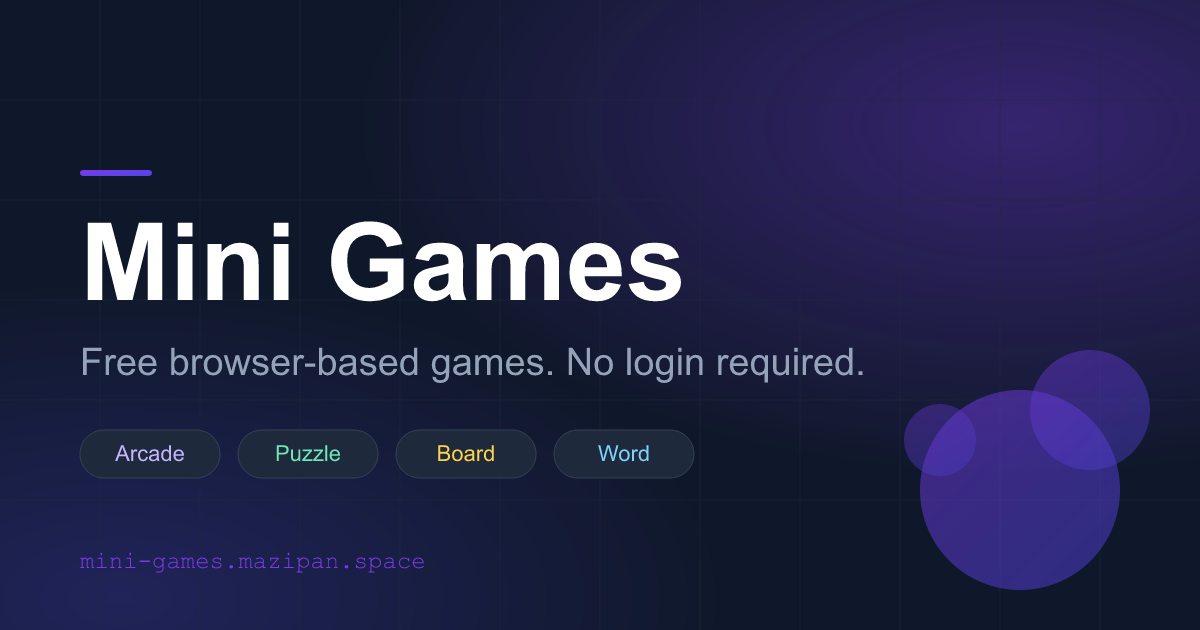
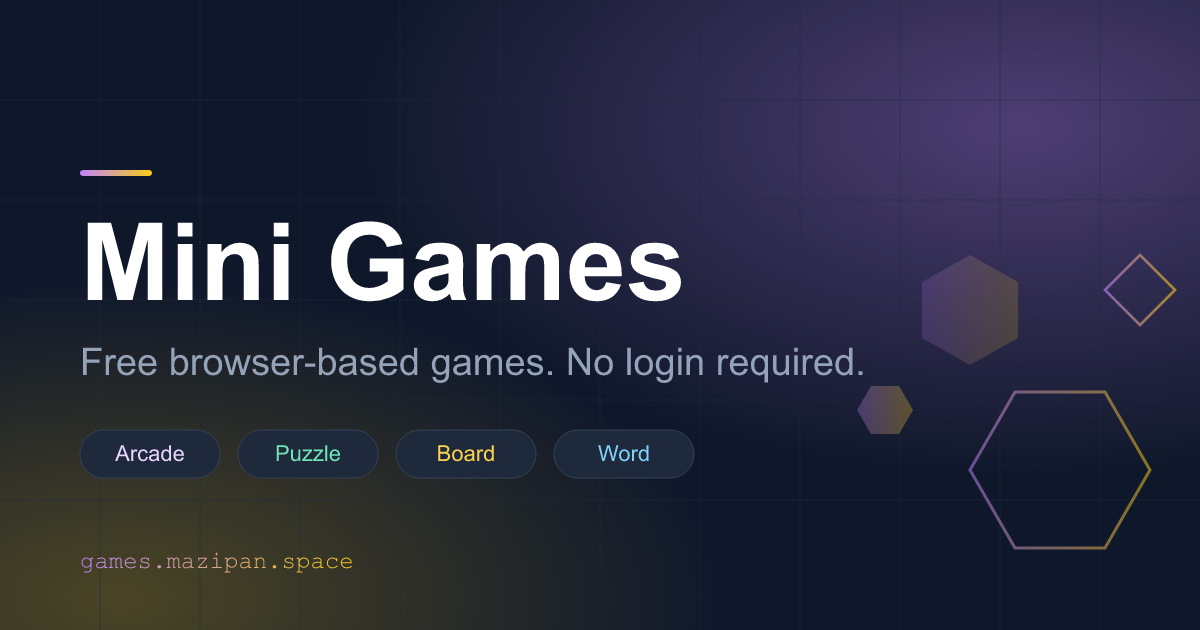
chore: fix og-image URL and refresh gradient + decoration (#31)
- Fix site URL from mini-games.mazipan.space to games.mazipan.space
- Update gradient to purple-400 → yellow-400
- Replace circle decorations with hexagon/diamond polygons
- Regenerate og-image.png

diff --git a/src/_data/site.js b/src/_data/site.js
@@ -1,7 +1,7 @@
 module.exports = {
   title: "Mini Games",
   description: "A collection of free, browser-based mini games. No login required. Play instantly.",
-  url: "https://mini-games.mazipan.space",
+  url: "https://games.mazipan.space",
   author: "mazipan",
   repo: "https://github.com/mazipan/mini-games",
   year: new Date().getFullYear(),
